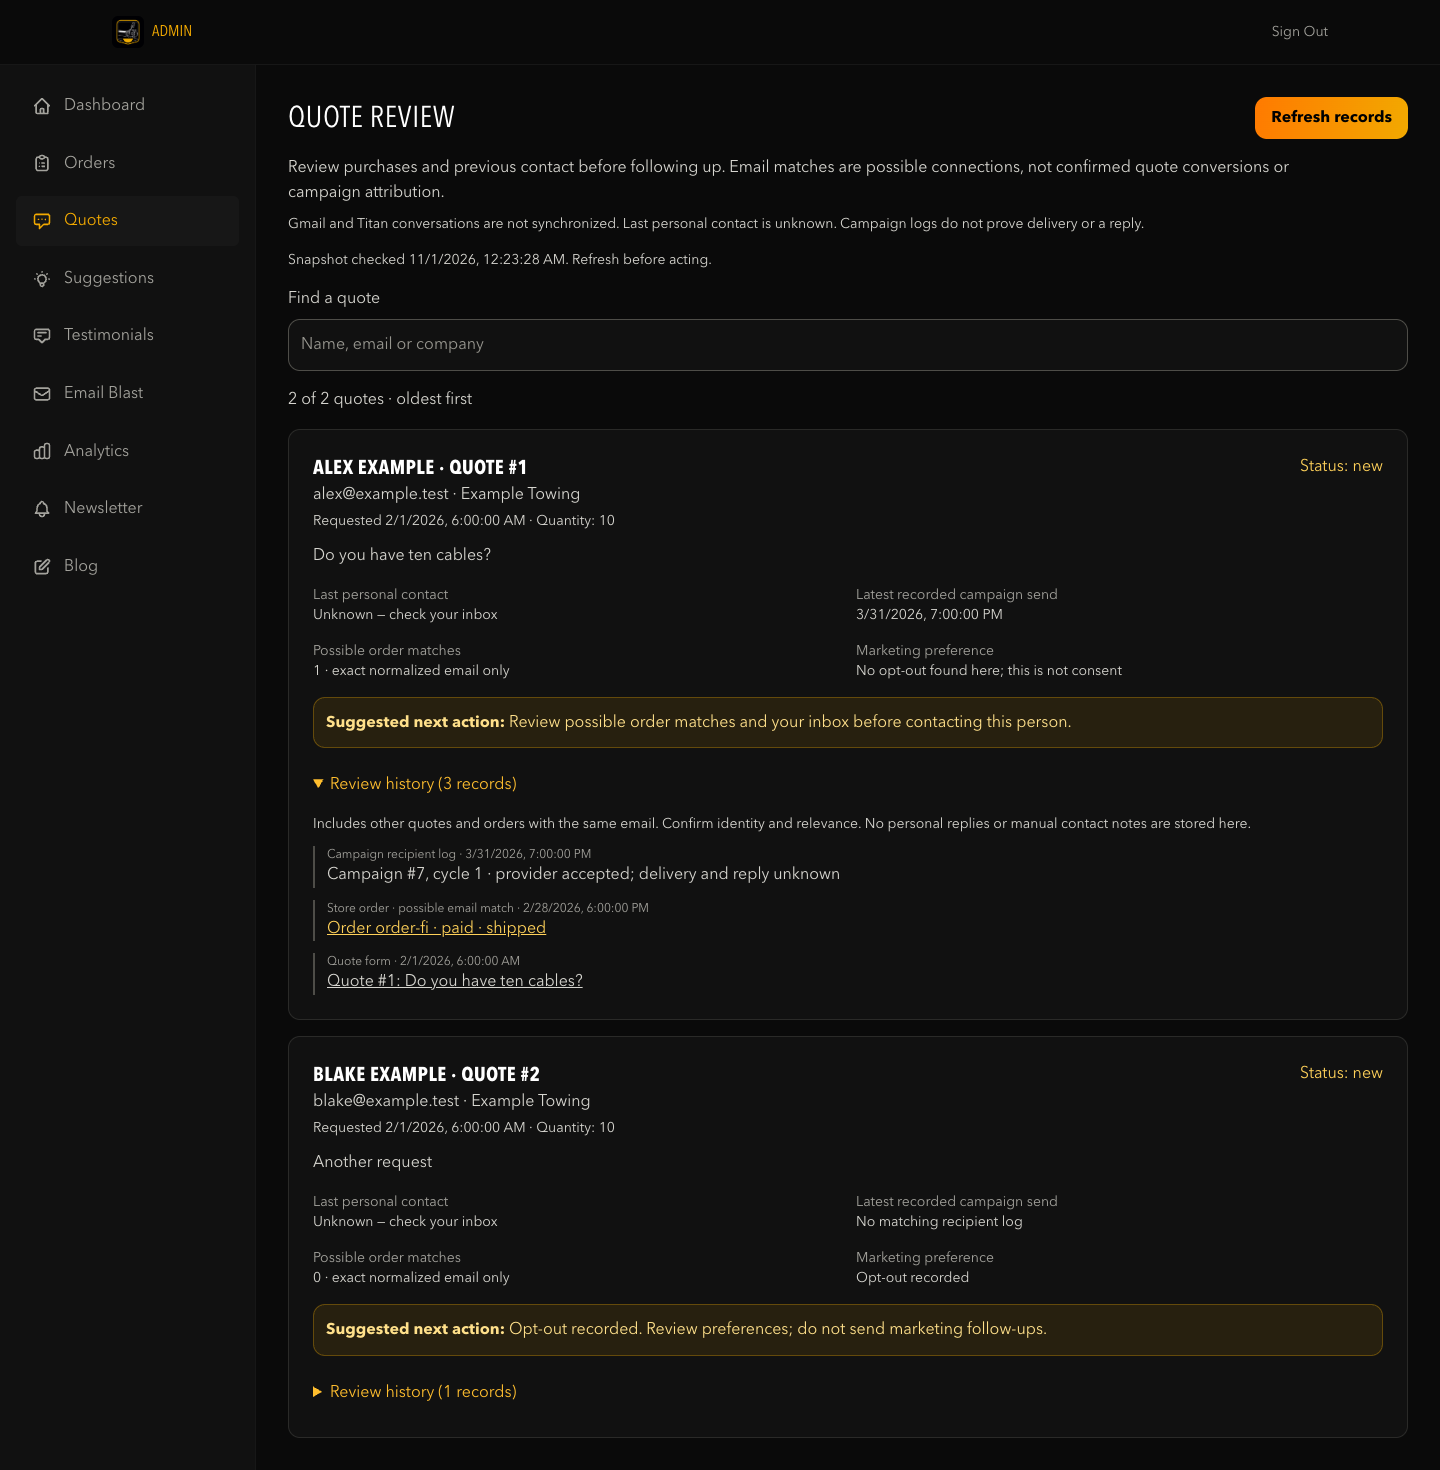
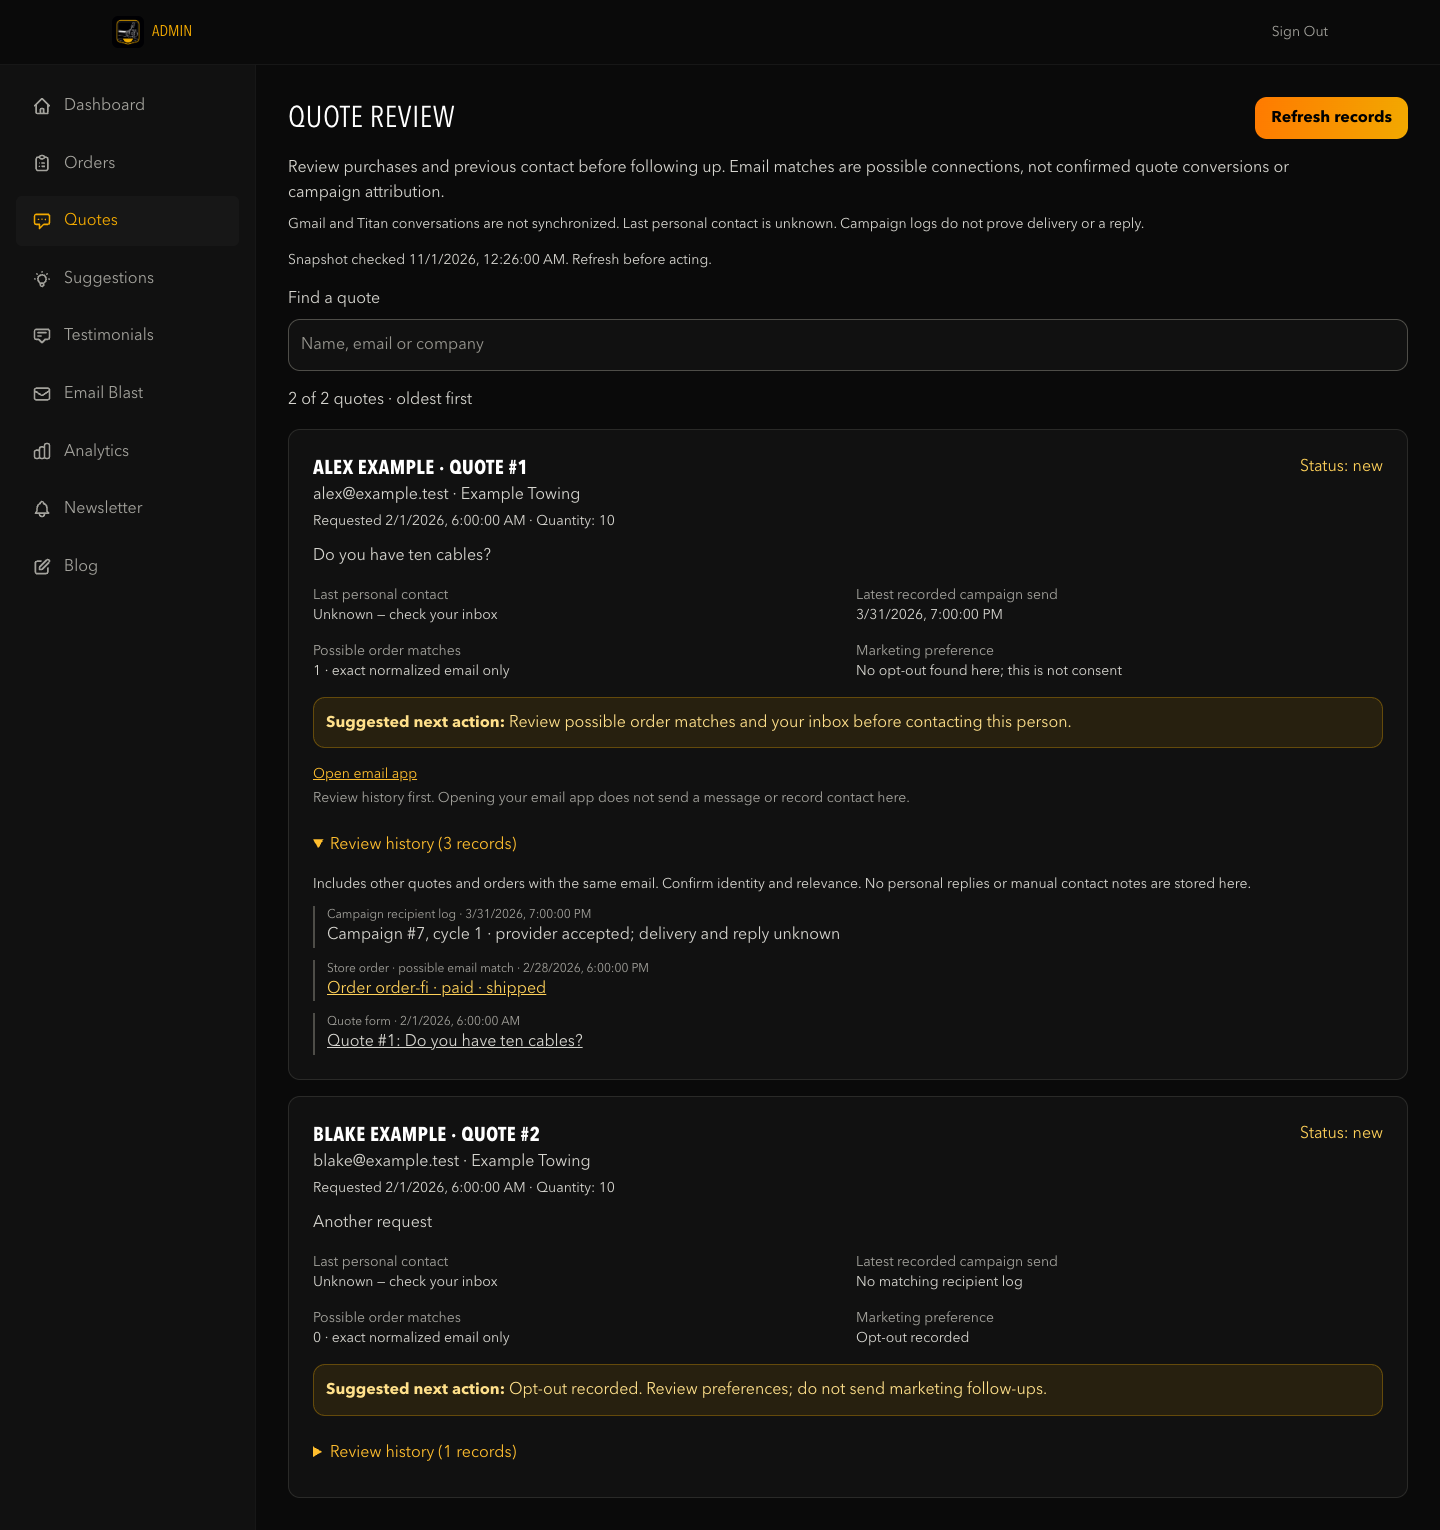
fix(admin): refine quote review evidence and retain email shortcut

diff --git a/src/lib/quoteReview.js b/src/lib/quoteReview.js
@@ -11,7 +11,7 @@ export function quoteReview(quote, sources) {
   const incomplete = ['orders', 'sends', 'preferences'].some(key => !sources[key] || sources[key].error)
   const events = [
     ...quotes.map(row => ({ id: `quote-${row.id}`, at: row.created_at, source: 'Quote form', text: `Quote #${row.id}: ${row.message || 'No message supplied'}`, href: `#quote-${row.id}` })),
-    ...orders.map(row => ({ id: `order-${row.id}`, at: row.created_at, source: 'Store order · possible email match', text: `Order ${String(row.id).slice(0, 8)} · ${row.payment_status || 'payment unknown'} · ${row.status || 'status unknown'}${dateValue(row.created_at) < dateValue(quote.created_at) ? ' · predates this quote' : ''}`, href: `/admin/orders?order=${encodeURIComponent(row.id)}` })),
+    ...orders.map(row => ({ id: `order-${row.id}`, at: row.created_at, source: 'Store order · possible email match', text: `Order ${String(row.id).slice(0, 8)} · ${row.payment_status || 'payment unknown'} · ${row.status || 'status unknown'}${Number.isFinite(Date.parse(row.created_at)) && Number.isFinite(Date.parse(quote.created_at)) && Date.parse(row.created_at) < Date.parse(quote.created_at) ? ' · predates this quote' : ''}`, href: `/admin/orders?order=${encodeURIComponent(row.id)}` })),
     ...sends.map(row => ({ id: `send-${row.id}`, at: row.sent_at, source: 'Campaign recipient log', text: `Campaign #${row.campaign_id}, cycle ${row.cycle} · provider accepted; delivery and reply unknown` })),
   ].sort((a, b) => dateValue(b.at) - dateValue(a.at) || a.id.localeCompare(b.id))
   const latestSend = sends.filter(row => dateValue(row.sent_at)).sort((a,b) => dateValue(b.sent_at)-dateValue(a.sent_at))[0]

diff --git a/src/components/admin/QuoteContactReview.jsx b/src/components/admin/QuoteContactReview.jsx
@@ -70,6 +70,10 @@ export default function QuoteContactReview() {
             <div><dt className="text-gray-400">Marketing preference</dt><dd>{review.optedOut ? 'Opt-out recorded' : sources.preferences?.error ? 'Unavailable' : 'No opt-out found here; this is not consent'}</dd></div>
           </dl>
           <p className="rounded bg-yellow-500/10 border border-yellow-500/30 p-3 text-yellow-200"><strong>Suggested next action: </strong>{review.nextAction}</p>
+          {!review.optedOut && !review.incomplete && /^[^\s@]+@[^\s@]+\.[^\s@]+$/.test(String(quote.email || '').trim()) && <div className="mt-4 text-sm">
+            <a href={`mailto:${encodeURIComponent(quote.email.trim())}`} className="text-yellow-400 underline">Open email app</a>
+            <p className="mt-1 text-gray-400">Review history first. Opening your email app does not send a message or record contact here.</p>
+          </div>}
           <details className="mt-4">
             <summary className="cursor-pointer text-yellow-400 py-2">Review history ({review.events.length} records)</summary>
             <p className="text-sm my-2">Includes other quotes and orders with the same email. Confirm identity and relevance. No personal replies or manual contact notes are stored here.</p>

diff --git a/supabase/functions/_shared/quoteReview.js b/supabase/functions/_shared/quoteReview.js
@@ -1,7 +1,7 @@
 // Explicit projections avoid returning addresses, payment IDs, or email HTML.
 export const reviewSources = {
-  quotes: ['quote_requests', 'id,name,email,company,phone,quantity,message,status,created_at'],
-  orders: ['orders', 'id,email,status,payment_status,total_cents,created_at'],
+  quotes: ['quote_requests', 'id,name,email,company,quantity,message,status,created_at'],
+  orders: ['orders', 'id,email,status,payment_status,created_at'],
   sends: ['email_campaign_recipients', 'id,email,campaign_id,cycle,sent_at'],
   preferences: ['newsletter_subscribers', 'id,email,status,unsubscribed_at'],
 }

diff --git a/docs/quote-contact-review.md b/docs/quote-contact-review.md
@@ -20,7 +20,7 @@ No migration and no new table grants required. No production writes were perform
 
 ## Verification
 
-- 175 Node tests pass (169 existing plus 6 focused tests): exact email matching, duplicate IDs, pre-quote/unpaid orders, no conversion inference, campaign history semantics, opt-outs, missing sources, partial pagination failure, active-admin authorization, no-cache responses and repeat reads.
+- 177 Node tests pass (169 existing plus 8 focused tests): exact email matching, duplicate IDs, pre-quote/unpaid orders, no conversion inference, campaign history semantics, opt-outs, missing sources, partial pagination failure, active-admin authorization, no-cache responses and repeat reads.
 - Production build passes; existing chunk-size warning and offline sitemap blog-skip remain.
 - Route inventory and git diff whitespace checks pass.
 - Mocked browser QA passes at 1440×950 and 390×950: timeline/order links, personal-contact unknown labels, opt-out guidance, double refresh deduplication, search, missing-source/error/recovery, empty and stale states, no horizontal overflow or runtime errors. All non-local requests blocked; synthetic records only. Screenshots in quote-review-qa.
@@ -31,3 +31,13 @@ Re-run browser QA with local Vite at 127.0.0.1:3011 and QUOTE_PLAYWRIGHT_MODULE 
 ## Precise next approval
 
 Approve publishing this read-only quote review: deploy `quote-contact-review`, verify its access controls, then merge and deploy the frontend. This approval would not authorize changing customer records, contacting old quotes, inbox synchronization or a database migration.
+
+## Independent review, 2026-11-01
+
+Read-only live aggregates confirmed 16 quotes, all New, from February 26 through October 30, 2026. Eight quotes have any exact normalized-email order match; seven have a later paid order in confirmed/shipped/delivered status. These are matching-record counts, not confirmed conversions or a refund/test audit. Fifteen quotes have recipient-log matches; none of those logs predate the corresponding request. There are 226 recipient logs across two campaigns, dated September 25–October 19. Historical campaign totals cannot be assigned to individual quotes without recipient logs. No matching newsletter opt-out evidence was found for these 16 emails; this does not establish consent or absence of opt-outs elsewhere.
+
+Confirmed quote_requests RLS is enabled and no UPDATE/ALL policy exists for authenticated users. Thus the old dropdown's direct authenticated update was not a working persisted-status workflow under the current policy configuration. No production update was attempted to prove this. The old email-app link was a working convenience, so it is retained as `Open email app` on complete, non-opted-out records. It does not mutate state or call any send/log endpoint. Browser tests prevent the launch and confirm personal contact remains Unknown and no extra endpoint call occurs. No test launches an actual mail app. Status editing remains unavailable in this version; searching, reading all messages, comparing order history, opening order details, refreshing evidence and opening an external email draft remain possible.
+
+Review fixes: missing/invalid dates cannot be called pre-quote; removed unused phone/total fields from returned data; restored the explicitly untracked email-app shortcut. 177 unit tests pass; desktop/mobile mocked regression checks also pass.
+
+Deployment target: Supabase project twrihhyfvomqiqbxkitc, new function `quote-contact-review`, URL https://twrihhyfvomqiqbxkitc.supabase.co/functions/v1/quote-contact-review. Bundle index.ts plus its shared imports, using existing project Supabase URL, publishable and secret key configuration. Enable gateway JWT verification and verify real active-admin JWT compatibility before frontend rollout. No new secret should be created or exposed, no SQL/migration/grant/policy/cron changes are part of this deployment. The function adds a new read API surface; it uses privileged credentials only after active-admin verification and therefore does not expand which users are authorized. It does not remedy the broader pre-existing table policies. Deployment and live access verification have not occurred.
